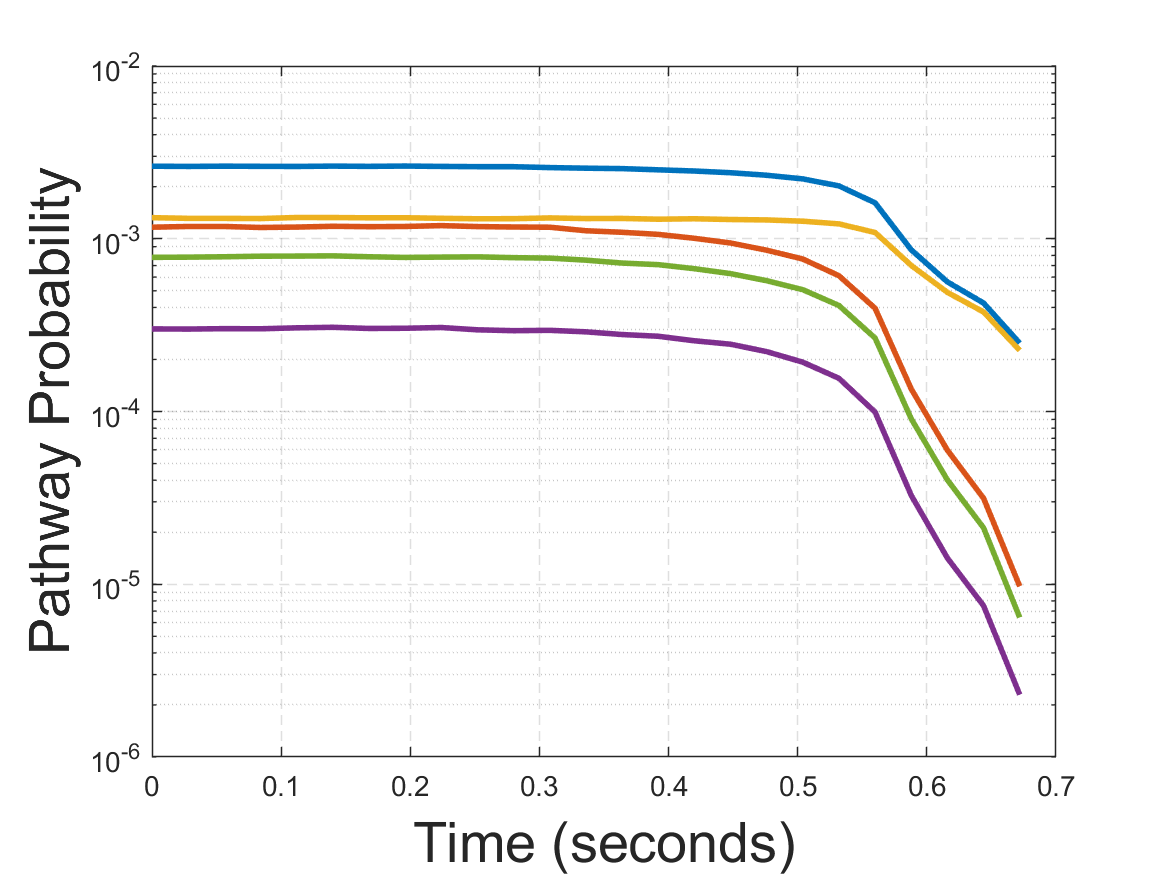
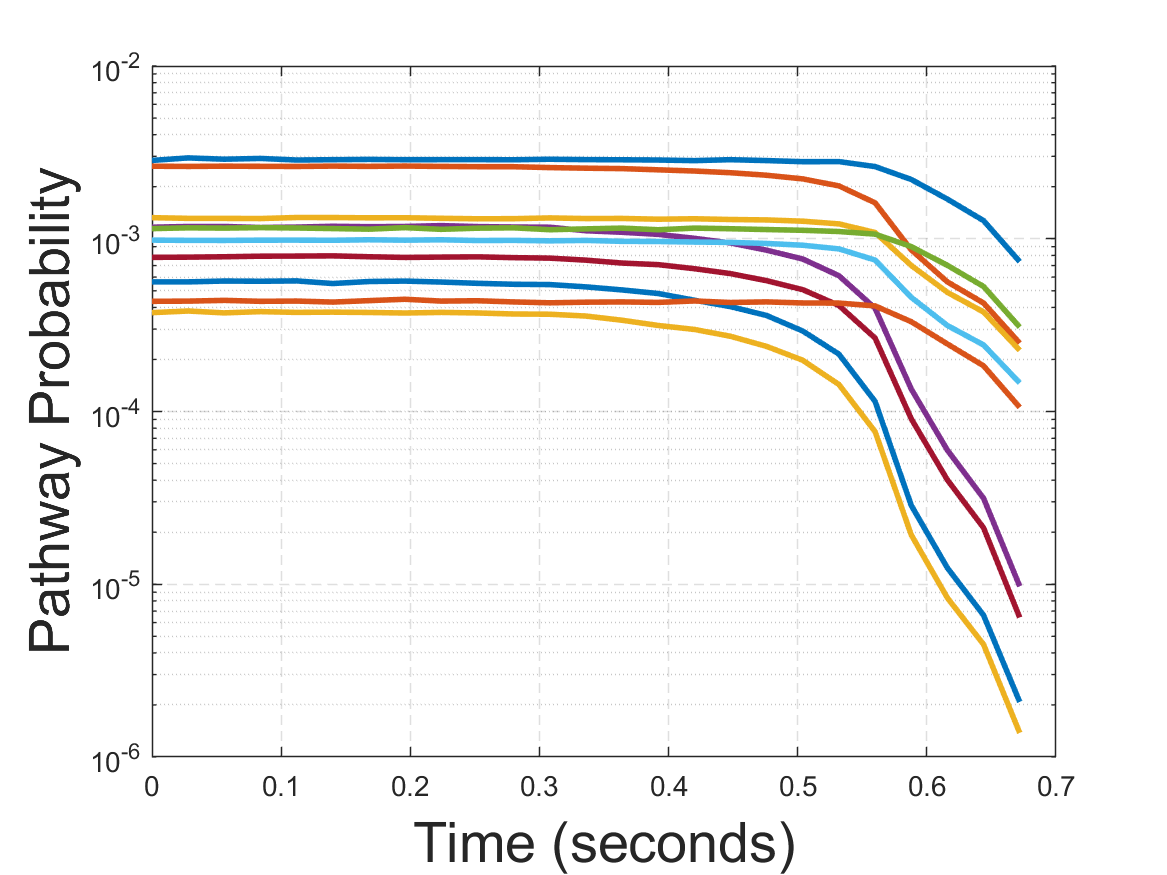
minor

diff --git a/theory/misc/species_formation_history/H2O2/pathway_prob_vs_time.m b/theory/misc/species_formation_history/H2O2/pathway_prob_vs_time.m
@@ -53,9 +53,9 @@ if sort_axis <= 0
     sort_axis = 1;
 end
     
-[B,I] = sort(pathP_mat(sort_axis, :),'descend');
+[B,I] = sort(pathP_mat(:, sort_axis),'descend');
 
-N = 5;
+N = 10;
 % graph handler
 H = gobjects(N);
 
